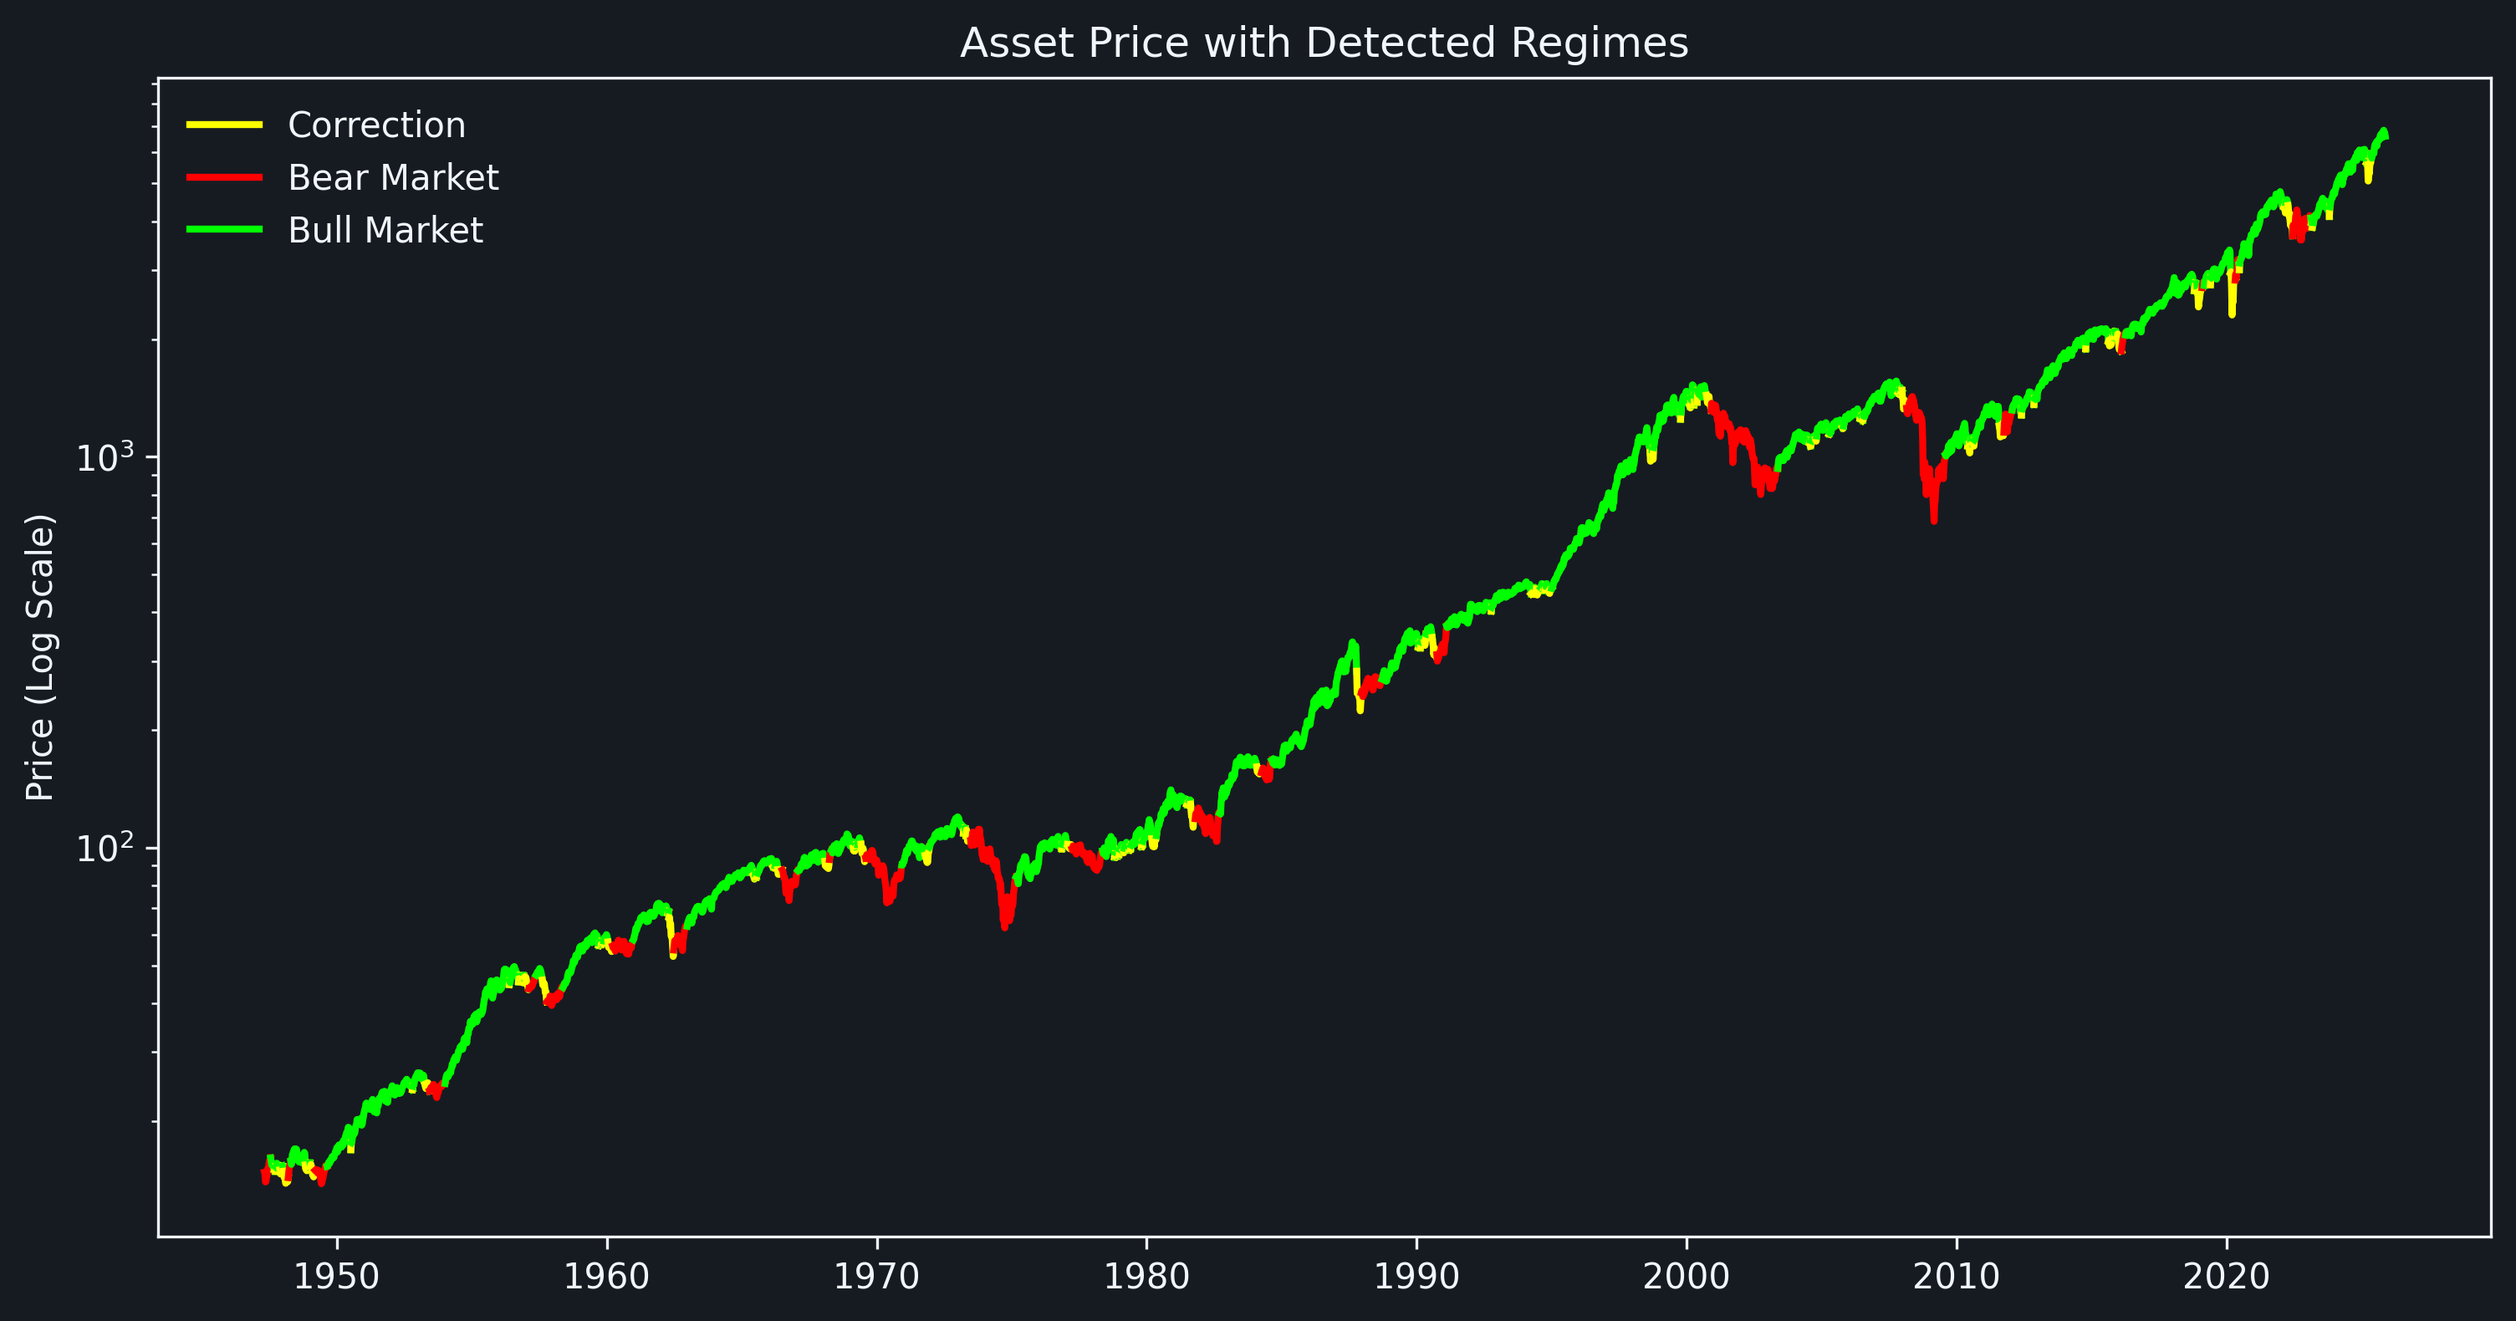
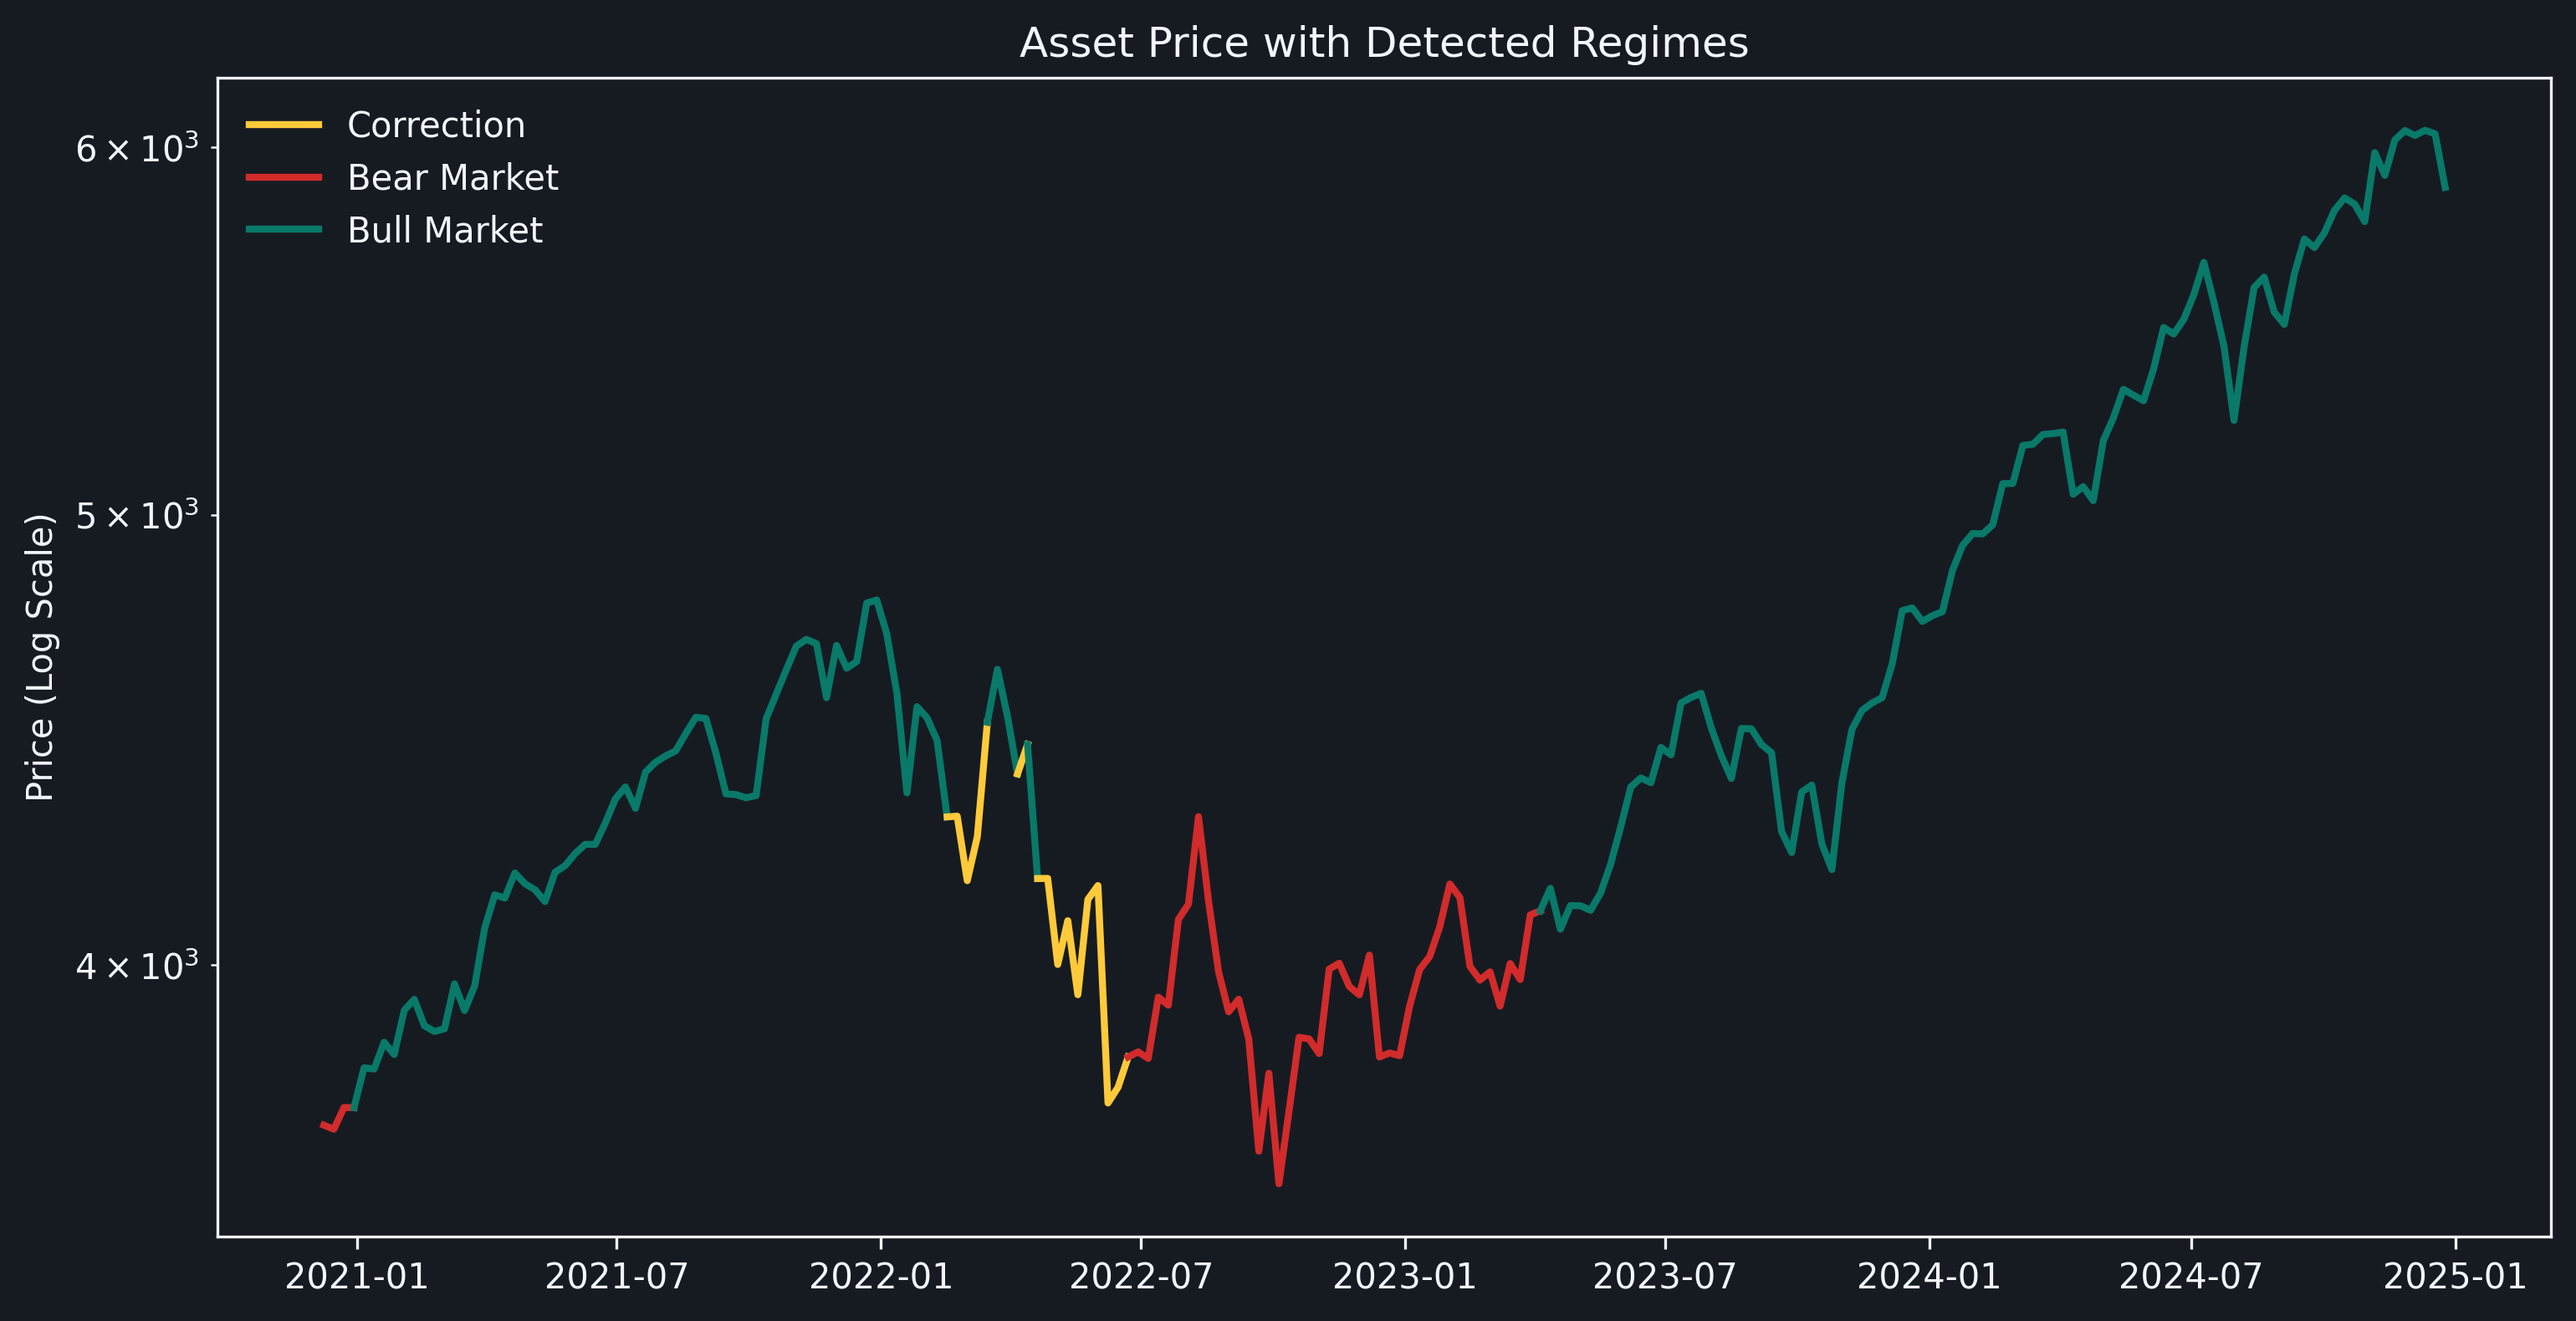
color palette

diff --git a/src/plotting.py b/src/plotting.py
@@ -13,6 +13,8 @@ import matplotx
 import numpy as np
 import pandas as pd
 
+import config
+
 
 plt.style.use(matplotx.styles.github["dark"])  # use the requested style
 
@@ -37,11 +39,11 @@ def save_regime_plots(price: pd.Series, regimes: Sequence[int], out_dir: str = "
     regimes = np.asarray(regimes)
 
     # Main plot: price with regime-colored line segments
-    fig, ax = plt.subplots(figsize=(12, 6))
+    fig, ax = plt.subplots(figsize=(config.PLOT_WIDTH, config.PLOT_HEIGHT))
 
-    # Fixed colors for 3 regimes: 0=Bull(green), 1=Correction(yellow), 2=Bear(red)
-    regime_colors = {0: "#00ff00", 1: "#ffff00", 2: "#ff0000"}
-    regime_labels = {0: "Bull Market", 1: "Correction", 2: "Bear Market"}
+    # Use configured regime colors and labels
+    regime_colors = config.REGIME_COLORS
+    regime_labels = config.REGIME_LABELS
     
     # Override with custom names if provided
     if state_names is not None:
@@ -82,7 +84,7 @@ def save_regime_plots(price: pd.Series, regimes: Sequence[int], out_dir: str = "
     ax.set_yscale("log")
     ax.legend(loc="upper left")
     regime_plot_path = os.path.join(out_dir, "regime_plot.png")
-    fig.savefig(regime_plot_path, dpi=300, bbox_inches="tight")
+    fig.savefig(regime_plot_path, dpi=config.PLOT_DPI, bbox_inches="tight")
     plt.close(fig)
 
     # Secondary plot: regime distribution (pie chart without labels on slices)
@@ -99,5 +101,5 @@ def save_regime_plots(price: pd.Series, regimes: Sequence[int], out_dir: str = "
     ax2.legend(wedges, labels, title="Regimes", loc="center left", bbox_to_anchor=(1, 0, 0.5, 1))
     ax2.set_title("Regime Distribution")
     dist_plot_path = os.path.join(out_dir, "regime_distribution.png")
-    fig2.savefig(dist_plot_path, dpi=300, bbox_inches="tight")
+    fig2.savefig(dist_plot_path, dpi=config.PLOT_DPI, bbox_inches="tight")
     plt.close(fig2)

diff --git a/src/data_loader.py b/src/data_loader.py
@@ -13,6 +13,8 @@ import numpy as np
 import pandas as pd
 import yfinance as yf
 
+import config
+
 
 def load_and_classify(ticker: str = "^GSPC", start: str = "2000-01-01", end: str = None) -> Tuple[pd.Series, np.ndarray]:
     """Download weekly SPX data and classify regimes based on 50W SMA.
@@ -45,16 +47,16 @@ def load_and_classify(ticker: str = "^GSPC", start: str = "2000-01-01", end: str
     else:
         price = data["Close"].dropna()
     
-    # Compute 50-week SMA
-    sma_50 = price.rolling(window=50).mean()
+    # Compute SMA using configured window
+    sma = price.rolling(window=config.SMA_WINDOW).mean()
     
     # Drop initial NaN period from SMA calculation first
-    valid_mask = sma_50.notna()
+    valid_mask = sma.notna()
     price_clean = price[valid_mask].copy()
-    sma_50_clean = sma_50[valid_mask].copy()
+    sma_clean = sma[valid_mask].copy()
     
     # Determine if price is above/below SMA
-    above_sma = (price_clean >= sma_50_clean).values
+    above_sma = (price_clean >= sma_clean).values
     below_sma = ~above_sma
     
     # Count consecutive weeks below SMA
@@ -90,11 +92,11 @@ def load_and_classify(ticker: str = "^GSPC", start: str = "2000-01-01", end: str
         weeks_above = consecutive_weeks_above[i]
         
         # Check if we enter bear market
-        if weeks_below >= 10:
+        if weeks_below >= config.BEAR_MARKET_THRESHOLD:
             in_bear_market = True
         
-        # Check if we exit bear market (need 4 consecutive weeks above SMA)
-        if in_bear_market and weeks_above >= 4:
+        # Check if we exit bear market
+        if in_bear_market and weeks_above >= config.BEAR_EXIT_CONFIRMATION:
             in_bear_market = False
         
         # Assign regime based on state

diff --git a/main.py b/main.py
@@ -1,28 +1,26 @@
 from __future__ import annotations
 
 import argparse
-import datetime
 import os
 from typing import Optional
 
+import config
 from src.data_loader import load_and_classify
 from src.plotting import save_regime_plots
 
 
 def parse_args(argv: Optional[list[str]] = None) -> argparse.Namespace:
     parser = argparse.ArgumentParser(description="Market Regime Detection using 50-Week SMA Rule")
-    today = datetime.date.today().isoformat()
-    parser.add_argument("--start", default="1946-05-21", help="Start date (YYYY-MM-DD)")
-    parser.add_argument("--end", default=today, help="End date (YYYY-MM-DD)")
-    parser.add_argument("--ticker", default="^GSPC", help="Asset ticker (default: ^GSPC for SPX)")
+    parser.add_argument("--start", default=config.DEFAULT_START_DATE, help="Start date (YYYY-MM-DD)")
+    parser.add_argument("--end", default=config.DEFAULT_END_DATE, help="End date (YYYY-MM-DD)")
+    parser.add_argument("--ticker", default=config.DEFAULT_TICKER, help="Asset ticker (default: ^GSPC for SPX)")
     return parser.parse_args(argv)
 
 
 def main() -> None:
     args = parse_args()
 
-    out_dir = "plots"
-    os.makedirs(out_dir, exist_ok=True)
+    os.makedirs(config.OUTPUT_DIR, exist_ok=True)
 
     # Load weekly SPX data and classify regimes using 50W SMA rule
     price_series, regimes = load_and_classify(
@@ -30,7 +28,7 @@ def main() -> None:
     )
 
     # Plot and save (regimes are already labeled: 0=Bull, 1=Correction, 2=Bear)
-    save_regime_plots(price_series, regimes, out_dir=out_dir)
+    save_regime_plots(price_series, regimes, out_dir=config.OUTPUT_DIR)
 
 
 if __name__ == "__main__":

diff --git a/config.py b/config.py
@@ -1,0 +1,37 @@
+"""Configuration file for Market Regime Detection.
+
+Contains all configurable parameters for regime detection, plotting, and defaults.
+"""
+from __future__ import annotations
+
+import datetime
+
+# Default data parameters
+DEFAULT_TICKER = "^GSPC"  # S&P 500 index
+DEFAULT_START_DATE = "1946-05-21"  # S&P 500 inception date
+DEFAULT_END_DATE = datetime.date.today().isoformat()
+
+# Regime detection parameters
+SMA_WINDOW = 50  # Number of weeks for Simple Moving Average
+BEAR_MARKET_THRESHOLD = 10  # Consecutive weeks below SMA to declare bear market
+BEAR_EXIT_CONFIRMATION = 4  # Consecutive weeks above SMA required to exit bear market
+
+# Plotting parameters
+OUTPUT_DIR = "plots"
+PLOT_DPI = 300
+PLOT_WIDTH = 12
+PLOT_HEIGHT = 6
+
+# Regime colors (hex codes)
+REGIME_COLORS = {
+    0: "#097969",  # Bull Market - Green
+    1: "#ffca3a",  # Correction - Yellow
+    2: "#D22B2B",  # Bear Market - Red
+}
+
+# Regime labels
+REGIME_LABELS = {
+    0: "Bull Market",
+    1: "Correction",
+    2: "Bear Market",
+}
